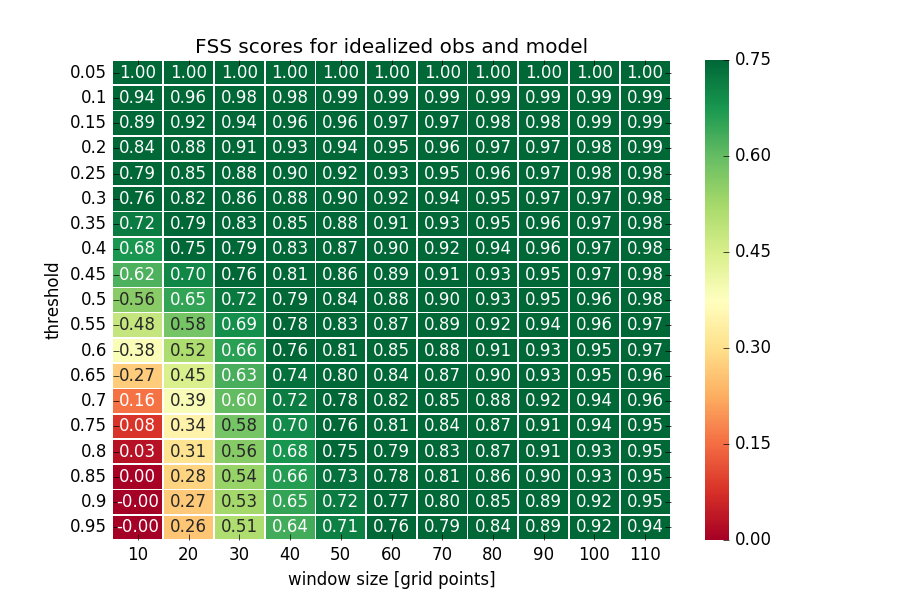
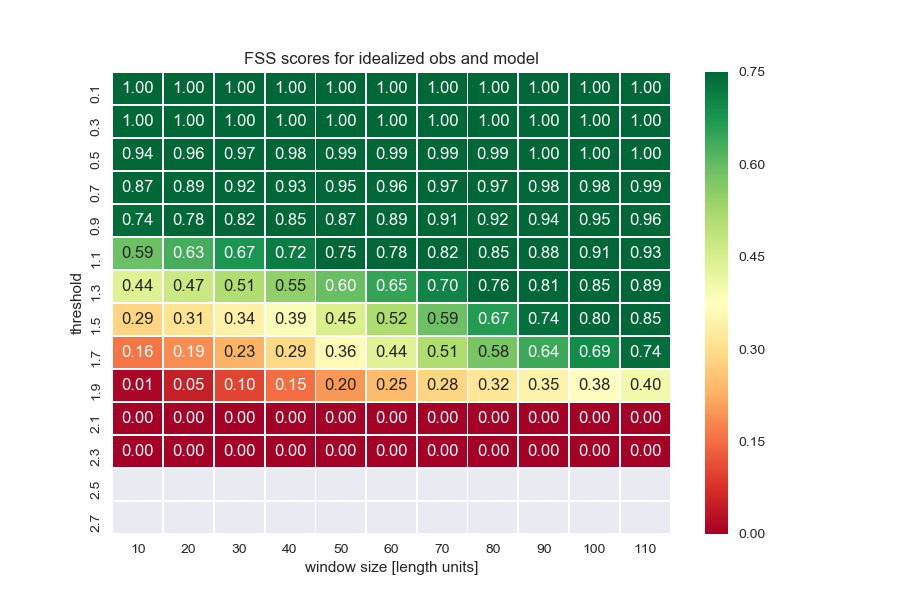
made normalization obsolete, auto-scaling, nicer colormap

diff --git a/ideal_fields.py b/ideal_fields.py
@@ -14,30 +14,36 @@ random.seed(12345)  # comment for different result each time
 # random.seed(2)
 
 def draw_fields(xx, yy, obs, mod):
+    maxmax = max(np.max(obs),np.max(mod))+0.1
+    minmin = min(np.min(obs),np.min(mod))-0.05
+    colormap = 'GnBu'
+    levels1 = np.round(np.arange(minmin, maxmax, maxmax/20.), decimals = 1)
+    levels2 = np.round(np.arange(minmin, maxmax, maxmax/20.), decimals = 1)
+    levels3 = np.round(np.arange(minmin, maxmax, maxmax/10.), decimals = 1)
     fig, axs = plt.subplots(1, 2, figsize=(12, 6), sharex=True, sharey=True)
     # draw pseudo obs
-    c1 = axs[0].contourf(xx, yy, obs, levels=np.arange(0.0, 1.001, 0.05),
-                         cmap='viridis_r', alpha=0.7)
-    c1b = axs[0].contour(xx, yy, obs, levels=np.arange(0.1, 1, 0.1),
+    c1 = axs[0].contourf(xx, yy, obs, levels=levels1,
+                         cmap=colormap, alpha=0.8)
+    c1b = axs[0].contour(xx, yy, obs, levels2,
                          colors='black', linewidths=0.8)
     # label thicker contours
     axs[0].clabel(c1b, inline=True, fmt='%3.1f', fontsize=8)
     # thin contours
-    c1c = axs[0].contour(xx, yy, obs, levels=np.arange(0.05, 1, 0.1),
+    c1c = axs[0].contour(xx, yy, obs, levels=levels3,
                          colors='black', linewidths=0.3)
-    axs[0].set_title('obs')
-    axs[0].set_xlabel('x')
-    axs[0].set_ylabel('y')
+    axs[0].set_title('observations')
+    axs[0].set_xlabel('x [lenght units from center]')
+    axs[0].set_ylabel('y [lenght units from center]')
     # draw pseudo model
-    c2 = axs[1].contourf(xx, yy, mod, levels=np.arange(0.0, 1.001, 0.05),
-                         cmap='viridis_r', alpha=0.7)
-    c2b = axs[1].contour(xx, yy, mod, levels=np.arange(0.1, 1, 0.1),
+    c2 = axs[1].contourf(xx, yy, mod, levels=levels1,
+                         cmap=colormap, alpha=0.8)
+    c2b = axs[1].contour(xx, yy, mod, levels2,
                          colors='black', linewidths=0.8)
     axs[1].clabel(c2b, inline=True, fmt='%3.1f', fontsize=8)
-    c2c = axs[1].contour(xx, yy, mod, levels=np.arange(0.05, 1, 0.1),
+    c2c = axs[1].contour(xx, yy, mod, levels=levels3,
                          colors='black', linewidths=0.3)
-    axs[1].set_title('model')
-    axs[1].set_xlabel('x')
+    axs[1].set_title('forecast')
+    axs[1].set_xlabel('x [lenght units from center]')
     plt.savefig('pseudo_obs_and_model.png')
     plt.close('all')
 
@@ -48,7 +54,7 @@ def draw_fss_heatmaps(fss_scores, vmin=0, vmax=0.75):
     sns.heatmap(fss_scores, annot=True, fmt="4.2f", linewidths=.5, ax=ax,
                 vmin=vmin, vmax=vmax, cmap='RdYlGn')
     plt.title('FSS scores for idealized obs and model')
-    plt.xlabel('window size [grid points]')
+    plt.xlabel('window size [length units]')
     plt.ylabel('threshold')
     plt.savefig('FSS_scores.png')
 
@@ -67,26 +73,27 @@ def draw_fss_heatmap_useful(fss_scores, vmin=0, vmax=0.75):
 def genfield(xx, yy, random_field=False):
     if not random_field:
         # example: two gaussian mountains, same size, shifted
-        obs = np.exp(-np.sqrt(xx ** 2 + yy ** 2) / 25.)
-        mod = np.exp(-np.sqrt((xx - 15) ** 2 + yy ** 2) / 25.)
+        obs = np.exp(-np.sqrt(xx ** 2 + yy ** 2) / 5.)
+        mod = np.exp(-np.sqrt((xx - 15) ** 2 + yy ** 2) / 5.)
         # obs=1-0.5*np.sin(xx/5.)
         # mod=1-0.5*np.sin(((0.5*xx+0.5*yy)-3.1415926)/5.)
     else:
         # example: sum of 5 randomly placed gaussian mountains
         obs = 0. * xx
         mod = 0. * xx
-        for ii in range(9):
-            a1 = random.uniform(-30, 30)
-            b1 = random.uniform(-30, 30)
-            a2 = random.uniform(-30, 30)
-            b2 = random.uniform(-30, 30)
-            obs = obs + np.exp(-np.sqrt((xx - a1) ** 2 + (yy - b1) ** 2) / 15.)
-            mod = mod + np.exp(-np.sqrt((xx - a2) ** 2 + (yy - b2) ** 2) / 15.)
+        for ii in range(3):
+            a1 = random.uniform(-60, 60)
+            b1 = random.uniform(-60, 60)
+            a2 = random.uniform(-60, 60)
+            b2 = random.uniform(-60, 60)
+            obs = obs + np.exp(-np.sqrt((xx - a1) ** 2 + (yy - b1) ** 2) / 49.)
+            mod = mod + np.exp(-np.sqrt((xx - a2) ** 2 + (yy - b2) ** 2) / 49.)
             # normalize min to zero
-            obs = obs - np.min(obs)
-            mod = mod - np.min(mod)
+            # obs = obs - np.min(obs)
+            # mod = mod - np.min(mod)
     # return with max normalzed to 1
-    return (obs / np.max(obs), mod / np.max(mod))
+    # return (obs / np.max(obs), mod / np.max(mod))
+    return (obs, mod)
 
 
 def main():
@@ -94,12 +101,15 @@ def main():
     print('generating pseudo obs and model')
     x = np.arange(-50, 51, 1)
     xx, yy = np.meshgrid(x, x)
-    obs, mod = genfield(xx, yy, random_field=False)
+    obs, mod = genfield(xx, yy, random_field=True)
     # draw the two fields
     print('drawing pseudo obs and model')
     draw_fields(xx, yy, obs, mod)
     # calculate FSS
-    levels = np.arange(0.05, 1., 0.05)
+    #levels = np.arange(0.05, 1., 0.05)
+    maxmax = max(np.max(obs),np.max(mod))+0.3
+    levels = np.round(np.arange(0.1, maxmax, maxmax/14.),
+        decimals = 1)
     # windows=[1,2,3,5,10,15,20,25,30,40,50,60,75,100,150,200]
     windows = range(10, 120, 10)
     print('calculating FSS')
